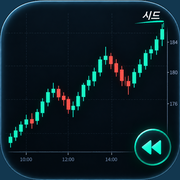
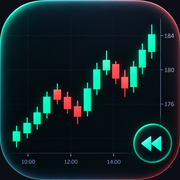
Add files via upload

Changed region(s): [[0.0, 0.0, 1.0, 1.0]]

diff --git a/index.html b/index.html
@@ -3947,6 +3947,7 @@ function StudyDetail({ study, onBack, onDelete, onUpdate }) {
       React.createElement('button', { className: 'link-btn link-btn--danger', onClick: function () { onDelete(study.id); } }, '삭제')
     ),
     React.createElement('div', { className: 'study-card__top' },
+      React.createElement('span', { className: 'tip-number' }, '#' + (study.number || '?')),
       React.createElement('span', { className: 'study-card__symbol' }, study.symbol),
       React.createElement('span', { className: 'badge ' + (study.direction === 'long' ? 'badge--long' : 'badge--short') },
         study.direction === 'long' ? '롱' : '숏'),
@@ -4230,7 +4231,7 @@ function ZoomLightbox({ items, index, onClose }) {
       }
     },
       React.createElement('span', { className: 'mono', style: { fontSize: 13, opacity: 0.8 } },
-        (idx + 1) + ' / ' + items.length +
+        (items[idx] ? (items[idx].study.number || '?') + '-' + (items[idx].studyPhotoIdx + 1) : '') +
         (items[idx] && items[idx].photo.label ? ' · ' + items[idx].photo.label : '')),
       React.createElement('div', { style: { display: 'flex', gap: 8, alignItems: 'center' } },
         zoomed ? React.createElement('button', {
@@ -4350,9 +4351,23 @@ function StudyViewMobile({ studies, onDelete, onAdd, onUpdate }) {
   const fileRef = useRef(null);
   const current = studies.find(function (s) { return s.id === openId; });
   const galleryPhotos = studies.reduce(function (acc, s) {
-    (s.photos || []).forEach(function (p) { acc.push({ study: s, photo: p }); });
+    (s.photos || []).forEach(function (p, pi) { acc.push({ study: s, photo: p, studyPhotoIdx: pi }); });
     return acc;
   }, []);
+
+  function studyLabel(s) { return s.number ? String(s.number) : '?'; }
+  function photoLabel(g) { return studyLabel(g.study) + '-' + (g.studyPhotoIdx + 1); }
+
+  // 번호가 없는 기존 관점들에 한 번만 오래된 순서대로 번호를 매긴다 (표시용 번호가 매번 안 바뀌게)
+  useEffect(function () {
+    if (!onUpdate) return;
+    const missing = studies.filter(function (s) { return !s.number; });
+    if (!missing.length) return;
+    const haveNums = studies.map(function (s) { return s.number || 0; });
+    let next = haveNums.length ? Math.max.apply(null, haveNums) : 0;
+    const byOld = missing.slice().sort(function (a, b) { return new Date(a.createdAt || 0) - new Date(b.createdAt || 0); });
+    byOld.forEach(function (s) { next += 1; onUpdate(s.id, { number: next }); });
+  }, [studies]);
 
   function updGalleryDrawings(studyId, photoId, next) {
     if (!onUpdate) return;
@@ -4412,7 +4427,9 @@ function StudyViewMobile({ studies, onDelete, onAdd, onUpdate }) {
     if (editingId) {
       await onUpdate(editingId, form);
     } else {
-      await onAdd(form);
+      const nums = studies.map(function (s) { return s.number || 0; });
+      const nextNumber = nums.length ? Math.max.apply(null, nums) + 1 : 1;
+      await onAdd(Object.assign({}, form, { number: nextNumber }));
     }
     setCreating(false); setForm(null); setEditingId(null);
   }
@@ -4541,6 +4558,7 @@ function StudyViewMobile({ studies, onDelete, onAdd, onUpdate }) {
               galleryPhotos.map(function (g, i) {
                 return React.createElement('button', {
                   key: g.study.id + '_' + g.photo.id,
+                  'aria-label': photoLabel(g),
                   onClick: function () {
                     const el = galleryRef.current;
                     if (el) el.scrollTo({ left: i * el.clientWidth, behavior: 'smooth' });
@@ -4580,7 +4598,7 @@ function StudyViewMobile({ studies, onDelete, onAdd, onUpdate }) {
                   ),
                   React.createElement('p', { className: 'study-card__title' }, s.title),
                   React.createElement('p', { className: 'study-card__meta mono' },
-                    (i + 1) + ' / ' + galleryPhotos.length + (p.label ? ' · ' + p.label : '')),
+                    photoLabel(g) + (p.label ? ' · ' + p.label : '')),
                   React.createElement('div', { className: 'study-toolbar' },
                     React.createElement('div', { className: 'study-toolbar__group' },
                       IMG_TOOLS_M.map(function (t) {
@@ -4663,6 +4681,7 @@ function StudyViewMobile({ studies, onDelete, onAdd, onUpdate }) {
           const np = (s.photos || []).length;
           return React.createElement('div', { key: s.id, className: 'study-card' },
             React.createElement('div', { className: 'study-card__top' },
+              React.createElement('span', { className: 'tip-number' }, '#' + studyLabel(s)),
               React.createElement('span', { className: 'study-card__symbol' }, s.symbol),
               React.createElement('span', { className: 'badge ' + (s.direction === 'long' ? 'badge--long' : 'badge--short') },
                 s.direction === 'long' ? '롱' : '숏'),
